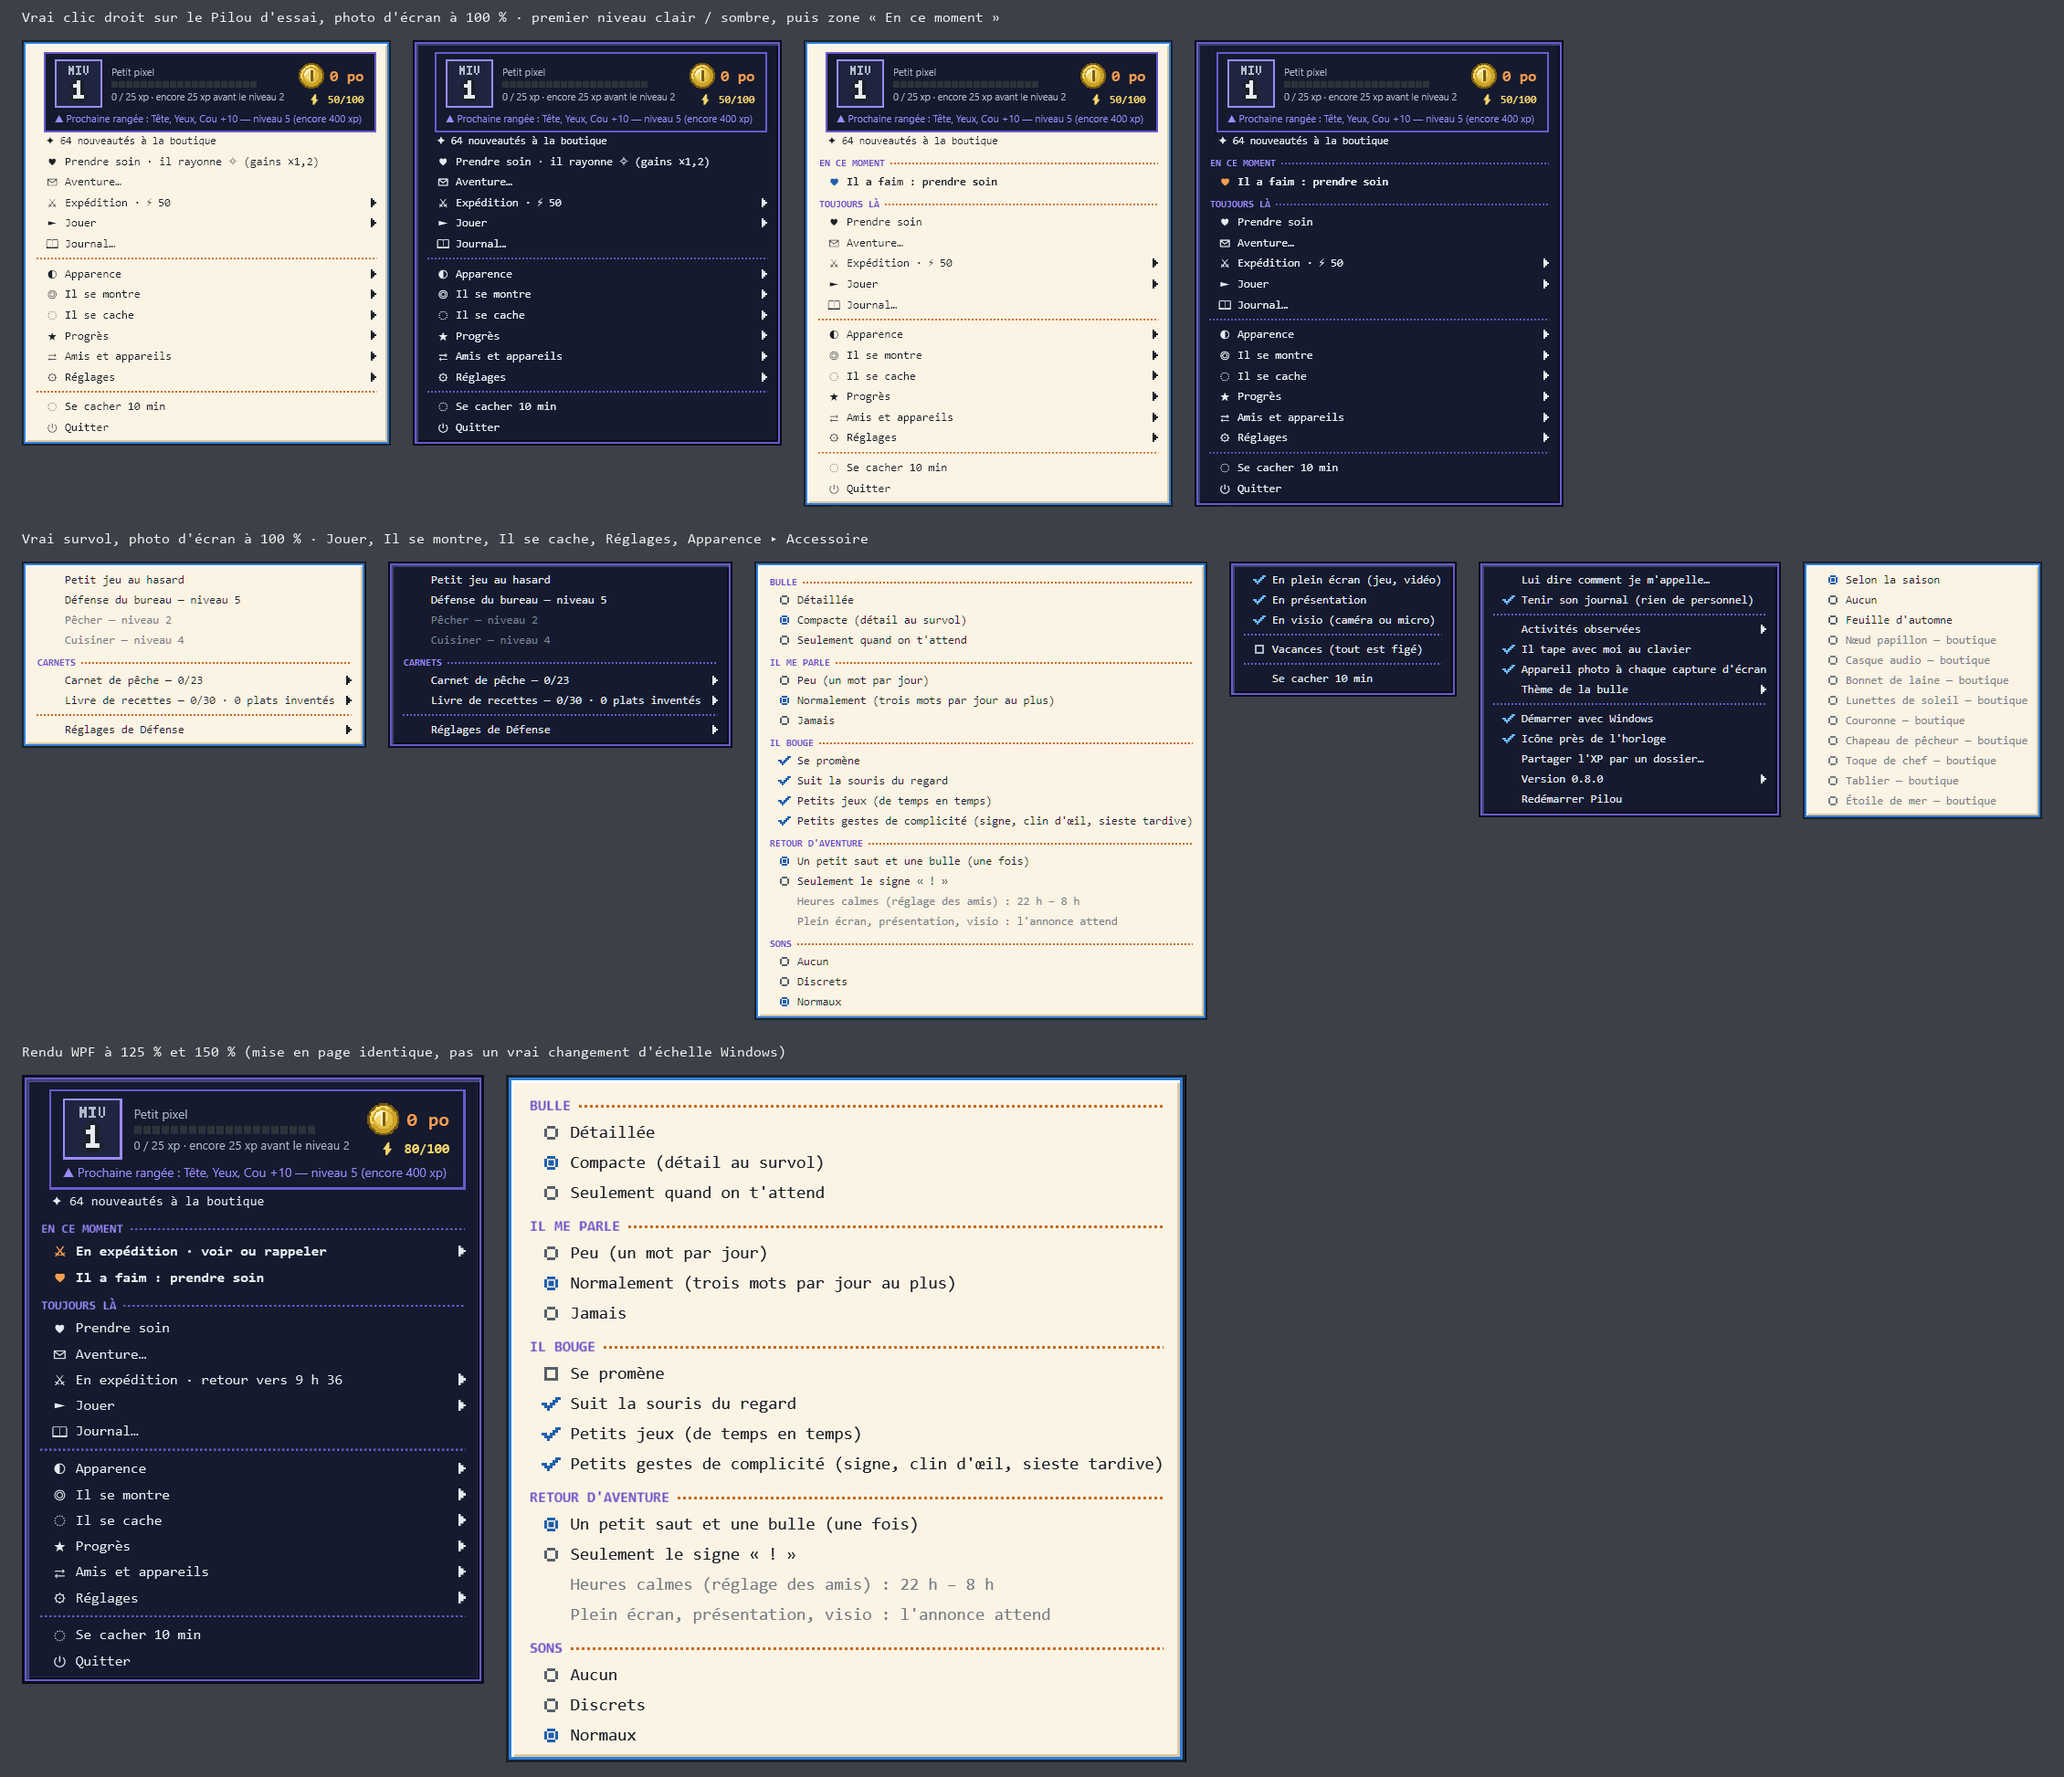
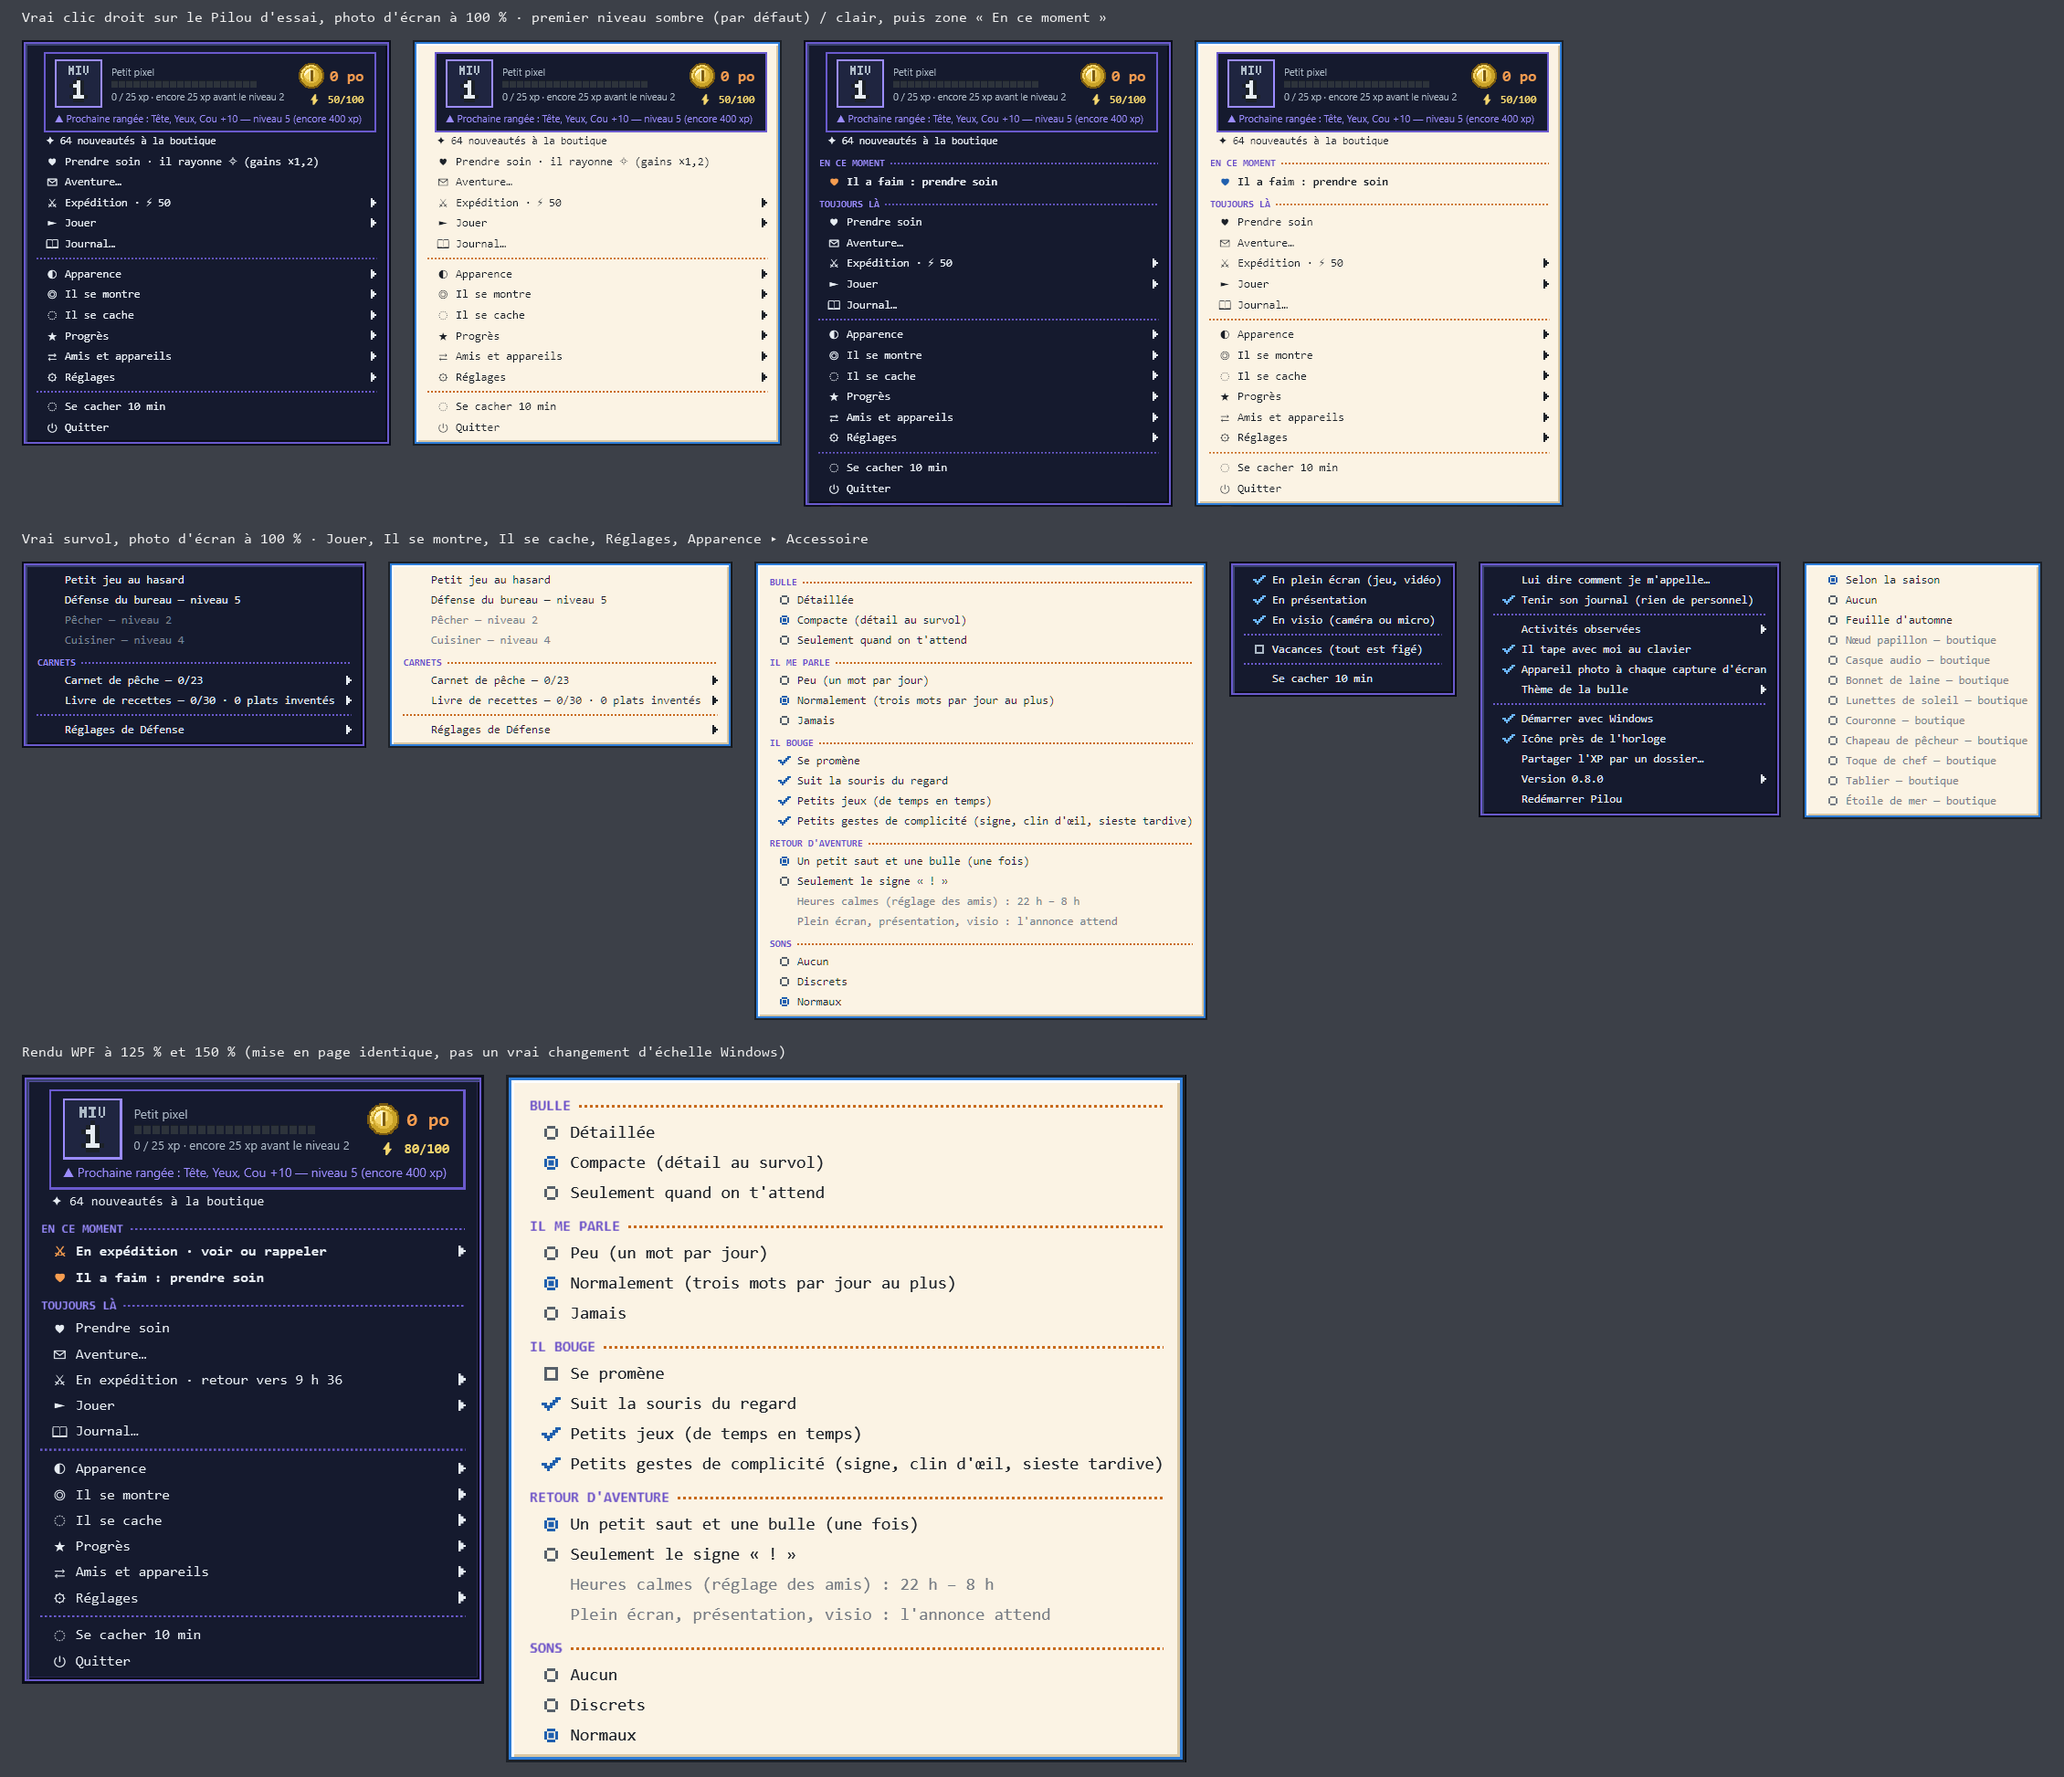
Thème sombre par défaut sur PC
- Reglages.Theme vaut « Sombre » par défaut : bulle, menu clic droit et fenêtre d'invitation (un seul réglage)
- Un réglage déjà enregistré garde son choix : seule une valeur absente prend le nouveau défaut (testé)
- Planche du menu remise dans l'ordre sombre puis clair ; décision notée dans DECISIONS.md, ETAT.md à jour

Changed region(s): [[0.0, 0.0, 0.7743, 0.3083], [0.0, 0.3083, 0.3717, 0.4317]]

diff --git a/apps/PilouBureau/Reglages.cs b/apps/PilouBureau/Reglages.cs
@@ -16,7 +16,9 @@ public sealed class Reglages
     // (Placement.Echelle). Décoché : le rendu d'origine (grille 48 × 56, taille libre).
     public bool DessinFin { get; set; } = true;
     public ModeBulle Bulle { get; set; } = ModeBulle.Compacte;
-    public ThemeBulle Theme { get; set; } = ThemeBulle.Auto;
+    // Thème de la bulle, du menu clic droit et de la fenêtre d'invitation : sombre par défaut (décision d'Antoine,
+    // 28 novembre 2026). Un réglage déjà enregistré garde son choix : seule une valeur absente prend ce défaut.
+    public ThemeBulle Theme { get; set; } = ThemeBulle.Sombre;
     public Accessoire Accessoire { get; set; } = Accessoire.Saison;
     public bool Promenade { get; set; } = true;
     public bool SuitSouris { get; set; } = true;

diff --git a/apps/PilouBureau/tests/ThemeTests.cs b/apps/PilouBureau/tests/ThemeTests.cs
@@ -1,0 +1,22 @@
+using PilouBureau;
+using Xunit;
+
+// Thème sombre par défaut sur PC ; un réglage déjà enregistré garde son choix (Antoine, 28 novembre 2026).
+public class ThemeTests
+{
+    [Fact]
+    public void SombreParDefaut()
+    {
+        Assert.Equal(ThemeBulle.Sombre, new Reglages().Theme);
+        Assert.True(new Reglages().Sombre());
+        Assert.Equal(ThemeBulle.Sombre, Reglages.Depuis("""{ "Taille": 1.0 }""").Theme); // champ absent
+    }
+
+    [Fact]
+    public void ChoixEnregistreGarde()
+    {
+        Assert.Equal(ThemeBulle.Auto, Reglages.Depuis("""{ "Theme": 0 }""").Theme);
+        Assert.Equal(ThemeBulle.Clair, Reglages.Depuis("""{ "Theme": 1 }""").Theme);
+        Assert.False(Reglages.Depuis("""{ "Theme": 1 }""").Sombre());
+    }
+}

diff --git a/docs/ETAT.md b/docs/ETAT.md
@@ -38,7 +38,8 @@ Dernière mise à jour : 28 novembre 2026.
 - **Menu clic droit « Sept portes »** (Windows, docs/AUDIT-MENU.md) : 14 lignes stables au premier niveau au lieu de 39
   (sept portes par intention, un signe de forme chacune), une zone « En ce moment » de deux lignes au plus, titres de
   section, rond pour les choix exclusifs et carré pour les cases. Rien n'est perdu (table ancien → nouveau dans la PR).
-  Vu au vrai clic droit sur le PC d'Antoine, clair et sombre, à 100 % ; 125 et 150 % en rendu WPF seulement
+  **Thème sombre par défaut sur PC** (bulle, menu, fenêtre d'invitation : un seul réglage ; un choix déjà enregistré
+  est gardé). Vu au vrai clic droit sur le PC d'Antoine, clair et sombre, à 100 % ; 125 et 150 % en rendu WPF seulement
   (`--essai=menu[:porte][:clair|sombre][:moment][:joueur]`, planche `docs/maquettes/menu/captures/sept-portes.png`).
 
 ## En cours

diff --git a/docs/DECISIONS.md b/docs/DECISIONS.md
@@ -33,6 +33,7 @@ Ce qu'Antoine a tranché, avec la raison. Avant de revenir sur l'une d'elles, lu
 - **Notifications Windows** : désactivées tant que Pilou n'est pas un paquet signé.
 - **Discord** : un bot, jamais l'automatisation d'un compte personnel.
 - **Sons** : « normaux » par défaut, PC et téléphone ; un réglage déjà enregistré garde son choix (Antoine, 28 novembre 2026).
+- Thème sombre par défaut sur PC ; un réglage déjà enregistré garde son choix (Antoine, 28 novembre 2026).
 
 ## Progression et économie
 
